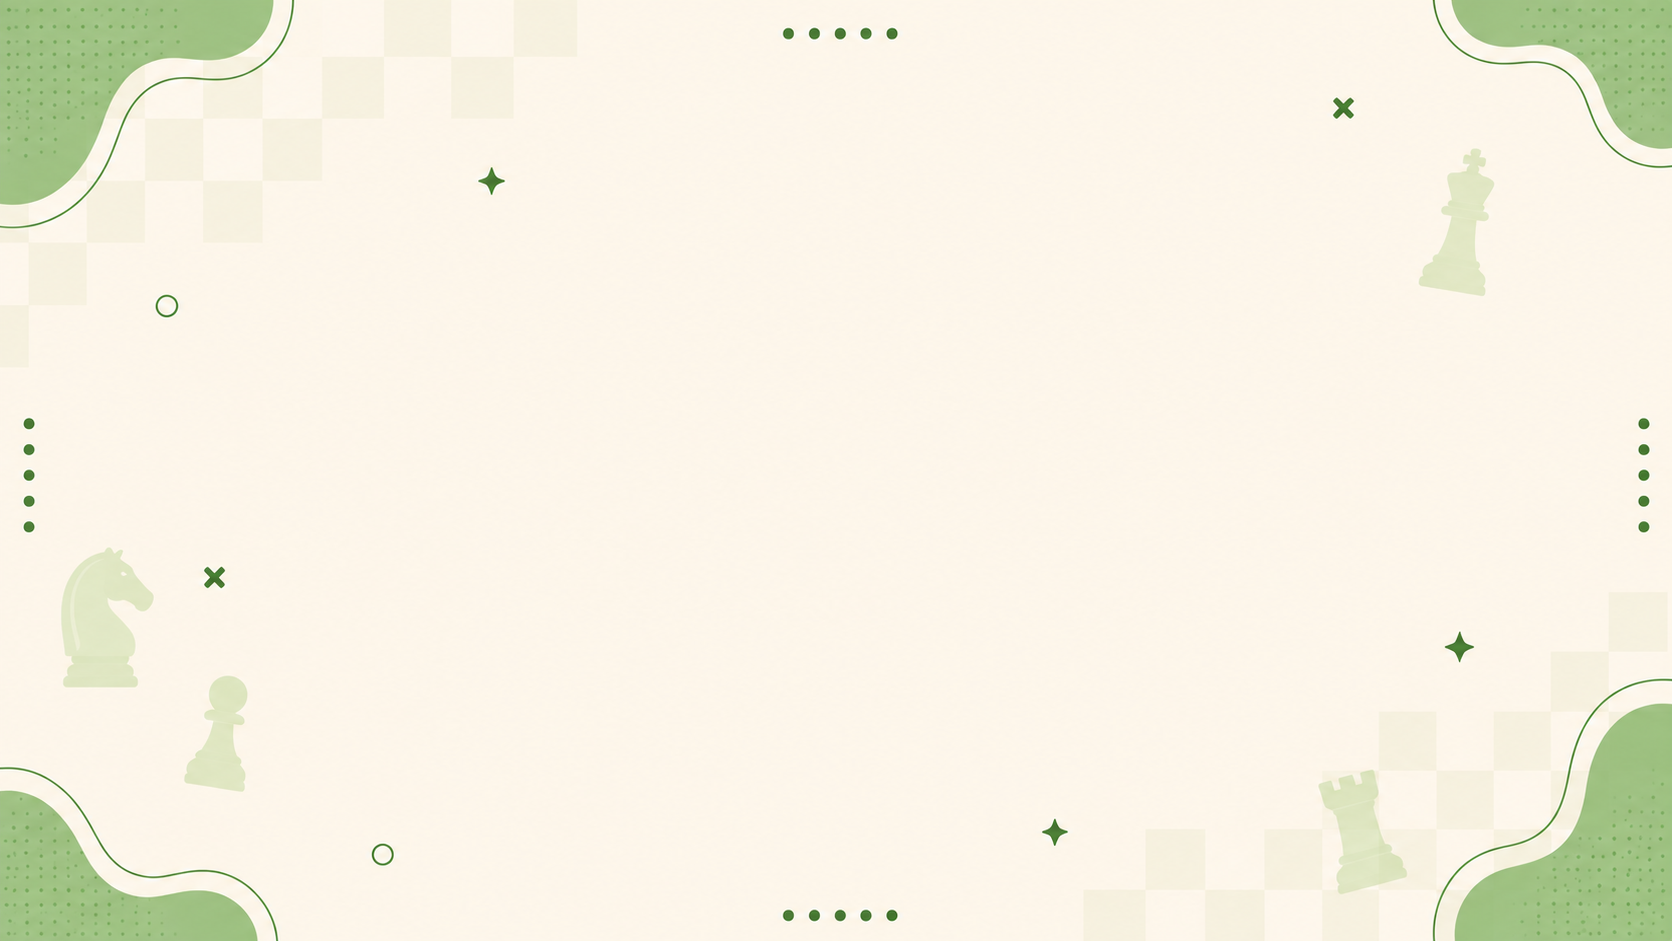
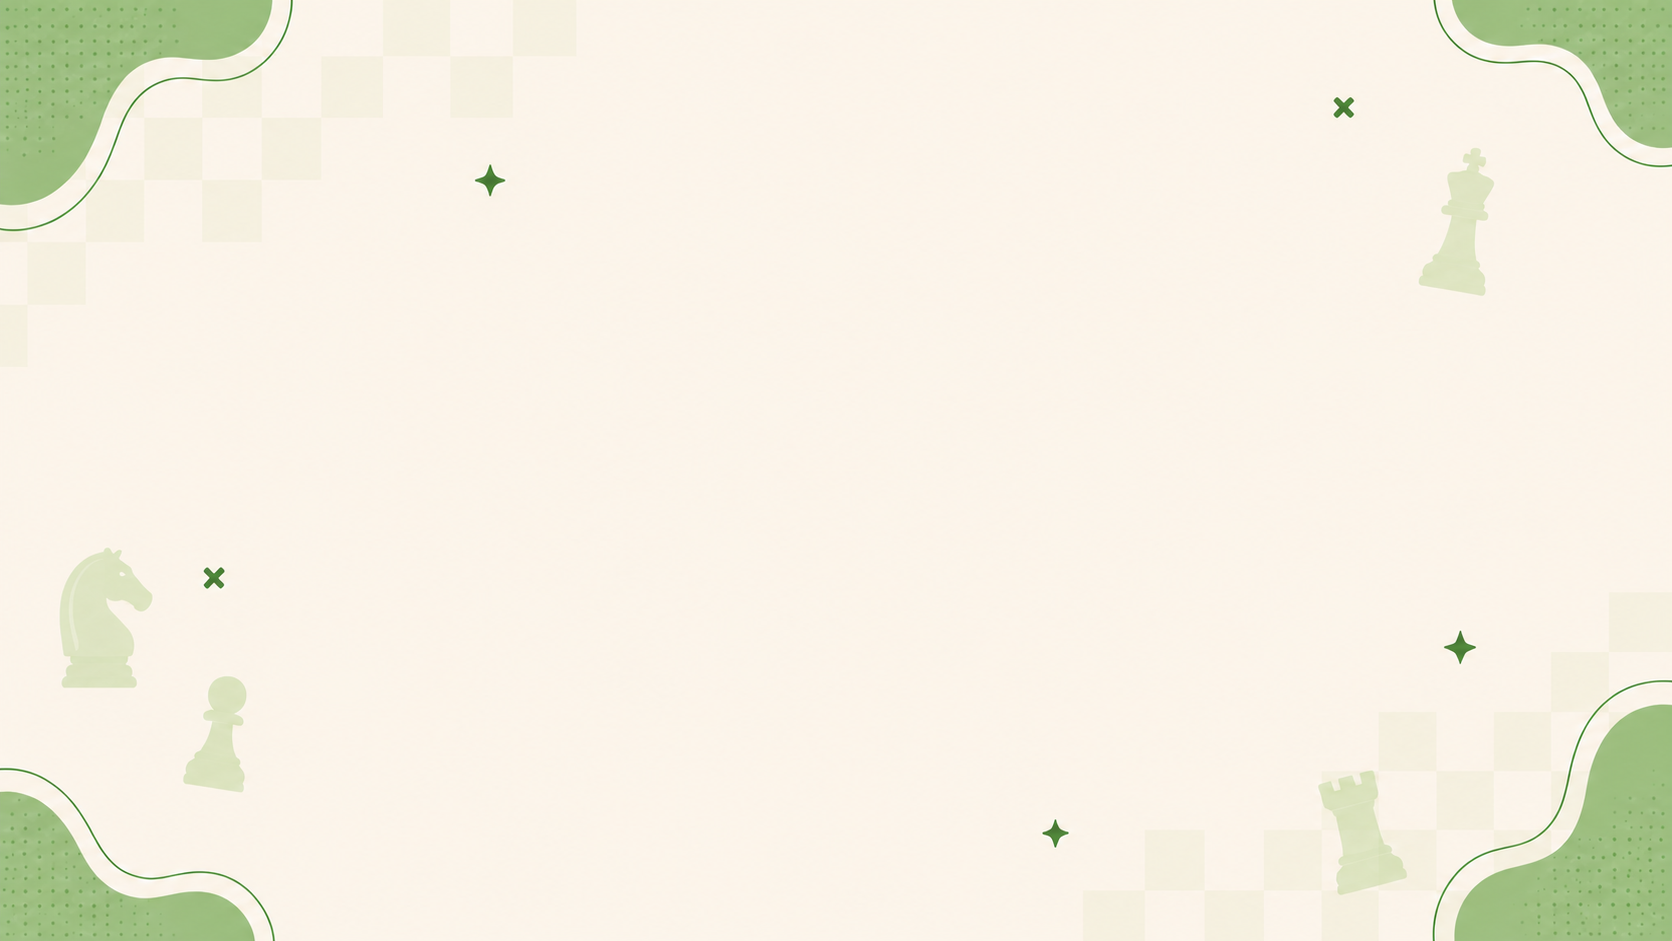
changed login screen UI

diff --git a/src/Screens/LoginScreen.jsx b/src/Screens/LoginScreen.jsx
@@ -1,7 +1,7 @@
 import ApiChess from "../api/apiChess";
 import { useContext } from "react";
 import { UserContext } from "../Context/UserContext";
-
+import { motion } from "framer-motion";
 
 function LoginScreen() {
 
@@ -28,21 +28,43 @@ function LoginScreen() {
   return (
     <div className="fixed inset-0  flex justify-center items-center bg-[#3E2C20]/25 z-50">
 
-      <div className="bg-[#FFF7EA] border border-[#E8DCC7] shadow-2xl rounded-xl p-3 h-65 w-140
-        shadow-[rgba(23,56,74,0.15)] flex items-center justify-center">
+      <motion.div
+        initial={{ opacity: 0, y: 20 }}
+        animate={{ opacity: 1, y: 0 }}
+        transition={{ duration: 0.4, ease: "easeOut" }}
+        className="bg-[url('/bluebg.png')] bg-center bg-cover border border-[#E8DCC7] shadow-2xl
+         rounded-xl h-65 w-140 shadow-[rgba(23,56,74,0.15)] ">
 
-        <button className="border-2 border-black hover:cursor-pointer px-3 py-2">
-          login
-        </button>
+        <div className="flex flex-col h-full justify-center gap-6">
 
-        <button className="border-2 border-black hover:cursor-pointer px-3 py-2"
-          onClick={() => {
-            createGuestId();
-          }}
-        >
-          No
-        </button>
-      </div>
+          <div className="flex flex-col items-center gap-4">
+            <h1 className="text-4xl font-bold font-cormorant text-[#17384A]">
+              login
+            </h1>
+            <h1 className="text-xs font-inter text-[#17384A]">
+              Do you want to Login
+            </h1>
+          </div>
+
+          <div className="flex justify-center gap-10 w-full text-white font-inter font-medium">
+
+            <button className="bg-[#17384A] hover:cursor-pointer w-30 py-2 rounded-lg
+            hover:opacity-85 hover:scale-105 transition">
+              Login
+            </button>
+
+            <button className="bg-[#17384A]  hover:cursor-pointer w-30 py-2 rounded-lg
+            hover:opacity-85 hover:scale-105 transition"
+              onClick={() => {
+                createGuestId();
+              }}
+            >
+              No
+            </button>
+          </div>
+
+        </div>
+      </motion.div>
     </div>
   )
 }
